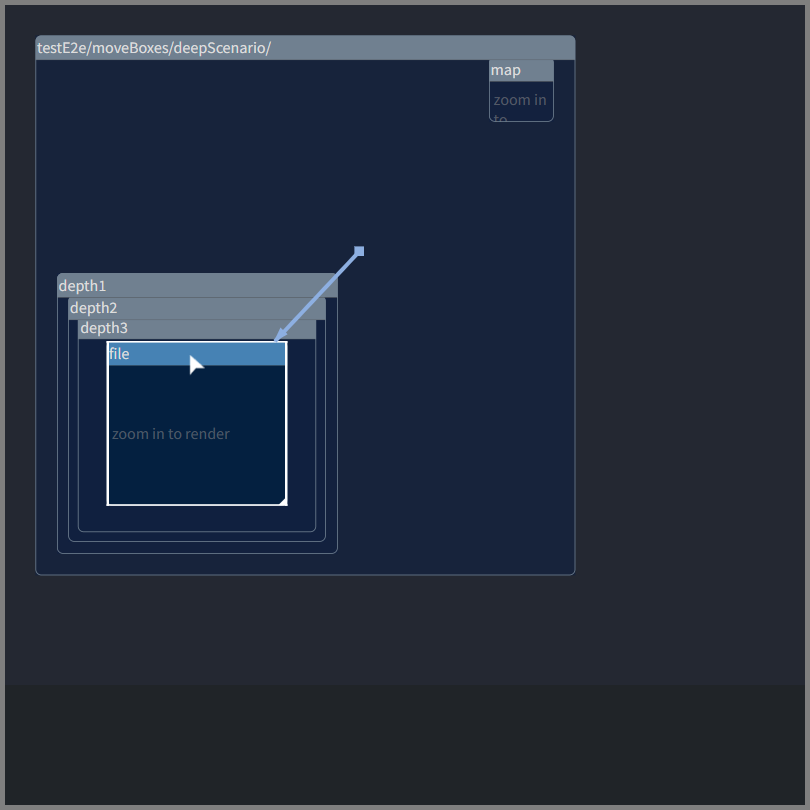
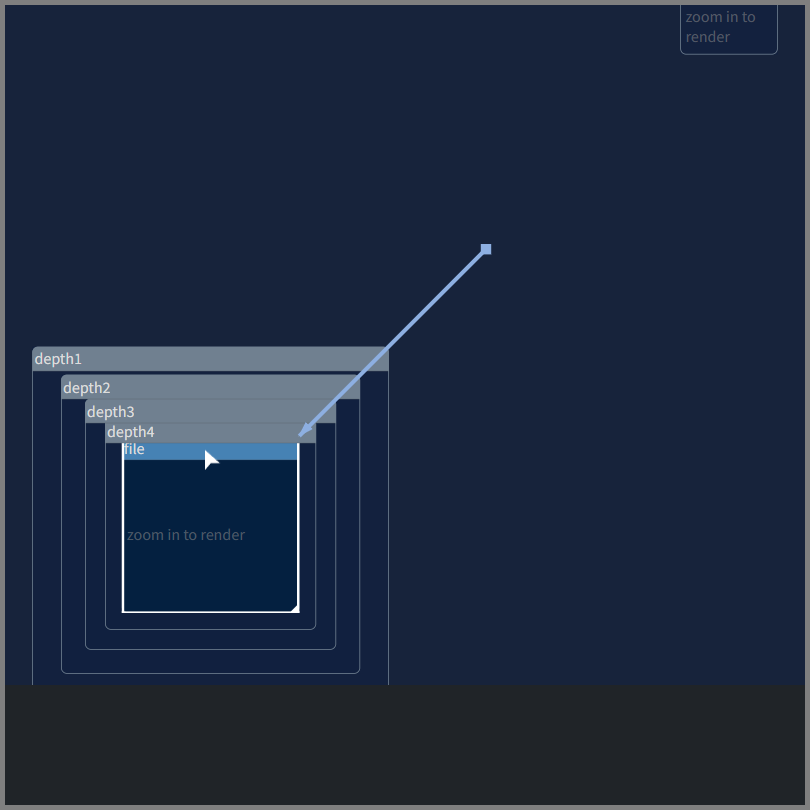
activate simpler algorithm for BorderingLinks, also fixes warnings

Changed region(s): [[0.0309, 0.2778, 0.6173, 0.7716], [0.0309, 0.0309, 0.7099, 0.1543], [0.8333, 0.0, 0.9259, 0.0617]]

diff --git a/src/core/link/BorderingLinks.ts b/src/core/link/BorderingLinks.ts
@@ -4,7 +4,7 @@ import { Link } from "./Link"
 import { Box } from "../box/Box"
 import { NodeWidget } from "../node/NodeWidget"
 
-const useOldComplicatedMechanismThatCachesAndIsMaybeFaster: boolean = true // TODO: cleanup as soon as save
+const useOldComplicatedMechanismThatCachesAndIsMaybeFaster: boolean = false // TODO: cleanup as soon as save
 
 export class BorderingLinks {
   private readonly referenceBoxOrNode: Box|NodeWidget
@@ -25,14 +25,14 @@ export class BorderingLinks {
     }
   }
 
-  public get(): Link[] {
+  public getAll(): Link[] {
     if (this.referenceBoxOrNode.isRoot()) {
       return []
     }
 
     const allParentLinks: Link[] = [
       ...this.referenceBoxOrNode.getParent().links.getLinks(),
-      ...this.referenceBoxOrNode.getParent().borderingLinks.get()
+      ...this.referenceBoxOrNode.getParent().borderingLinks.getAll()
     ]
     const boxOrNodeId: string = this.referenceBoxOrNode.getId()
     return allParentLinks.filter(link => {
@@ -41,18 +41,11 @@ export class BorderingLinks {
     })
   }
 
-  public async reorderAndSaveAll(): Promise<void> {
-    if (useOldComplicatedMechanismThatCachesAndIsMaybeFaster) {
-      await Promise.all(this.links.map(link => link.reorderAndSaveAndRender({movedWayPoint: this.referenceBoxOrNode})))
-    }
-    await Promise.all(this.get().map(link => link.reorderAndSaveAndRender({movedWayPoint: this.referenceBoxOrNode})))
-  }
-
   public async renderAll(): Promise<void> {
     if (useOldComplicatedMechanismThatCachesAndIsMaybeFaster) {
       await Promise.all(this.links.map(link => link.render()))
     }
-    await Promise.all(this.get().map(link => link.render()))
+    await Promise.all(this.getAll().map(link => link.render()))
   }
 
   public async renderAllThatShouldBe(): Promise<void> {
@@ -67,7 +60,7 @@ export class BorderingLinks {
     if (useOldComplicatedMechanismThatCachesAndIsMaybeFaster) {
       return this.links.filter(link => link.getManagingBox().isBodyBeingRendered())
     }
-    return this.get().filter(link => link.getManagingBox().isBodyBeingRendered())
+    return this.getAll().filter(link => link.getManagingBox().isBodyBeingRendered())
   }
 
   public getLinksThatIncludeWayPointFor(boxOrNode: Box|NodeWidget): Link[] {
@@ -117,11 +110,11 @@ export class BorderingLinks {
     return this.links.includes(link)
   }
 
-  public getOutgoingLinks(): Link[] {
+  public getOutgoing(): Link[] {
     if (useOldComplicatedMechanismThatCachesAndIsMaybeFaster) {
       return this.links.filter(link => link.from.getRenderedPathWithoutManagingBox().includes(this.referenceBoxOrNode))
     }
-    return this.get().filter(link => link.from.getRenderedPathWithoutManagingBox().includes(this.referenceBoxOrNode))
+    return this.getAll().filter(link => link.from.getRenderedPathWithoutManagingBox().includes(this.referenceBoxOrNode))
   }
 
 }

diff --git a/testE2e/moveBoxes/moveBoxes.test.ts b/testE2e/moveBoxes/moveBoxes.test.ts
@@ -59,24 +59,27 @@ test('move deep box to other folder', async () => {
     await gui.resetWindow()
     await gui.openFolder('testE2e/moveBoxes/deepScenario')
 
+    await gui.moveMouseTo(100, 250)
+    await gui.zoom(250)
+    
     await gui.clearTerminal()
-    await gui.moveMouseTo(185, 350)
+    await gui.moveMouseTo(200, 445)
     const expectedLogs: string[] = []
     expect(await gui.getLogs()).toEqual(expectedLogs)
     await e2eUtil.expectImageToMatchSnapshot({image: await gui.takeScreenshot(), snapshotIdentifier: snapshotIdentifier+'-origin'})
 
-    await dragTo(440, 350)
-    expectedLogs.push('Info: moved testE2e/moveBoxes/deepScenario/depth1/depth2/depth3/file to testE2e/moveBoxes/deepScenario/file')
-    expectedLogs.push('Info: moved testE2e/moveBoxes/deepScenario/map/depth1/depth2/depth3/file.json to testE2e/moveBoxes/deepScenario/map/file.json')
+    await dragTo(500, 445)
+    expectedLogs.push('Info: moved testE2e/moveBoxes/deepScenario/depth1/depth2/depth3/depth4/file to testE2e/moveBoxes/deepScenario/file')
+    expectedLogs.push('Info: moved testE2e/moveBoxes/deepScenario/map/depth1/depth2/depth3/depth4/file.json to testE2e/moveBoxes/deepScenario/map/file.json')
     expectedLogs.push('Info: saved testE2e/moveBoxes/deepScenario/map/file.json')
     expectedLogs.push('Info: saved testE2e/moveBoxes/deepScenario/map/maproot.mapsettings.json')
     expect(await gui.getLogs()).toEqual(expectedLogs)
     await e2eUtil.expectImageToMatchSnapshot({image: await gui.takeScreenshot(), snapshotIdentifier: snapshotIdentifier+'-moved-to-other-folder'})
 
-    await dragTo(185, 350)
-    expectedLogs.push('Info: moved testE2e/moveBoxes/deepScenario/file to testE2e/moveBoxes/deepScenario/depth1/depth2/depth3/file')
-    expectedLogs.push('Info: moved testE2e/moveBoxes/deepScenario/map/file.json to testE2e/moveBoxes/deepScenario/map/depth1/depth2/depth3/file.json')
-    expectedLogs.push('Info: saved testE2e/moveBoxes/deepScenario/map/depth1/depth2/depth3/file.json')
+    await dragTo(200, 445)
+    expectedLogs.push('Info: moved testE2e/moveBoxes/deepScenario/file to testE2e/moveBoxes/deepScenario/depth1/depth2/depth3/depth4/file')
+    expectedLogs.push('Info: moved testE2e/moveBoxes/deepScenario/map/file.json to testE2e/moveBoxes/deepScenario/map/depth1/depth2/depth3/depth4/file.json')
+    expectedLogs.push('Info: saved testE2e/moveBoxes/deepScenario/map/depth1/depth2/depth3/depth4/file.json')
     expectedLogs.push('Info: saved testE2e/moveBoxes/deepScenario/map/maproot.mapsettings.json')
     expect(await gui.getLogs()).toEqual(expectedLogs)
     await gui.clearTerminal()

diff --git a/src/core/node/NodeWidget.ts b/src/core/node/NodeWidget.ts
@@ -183,24 +183,23 @@ export class NodeWidget extends AbstractNodeWidget implements DropTarget, Dragga
             return this.dragCancel()
         }
 
-        const proms: Promise<any>[] = []
+        const pros: Promise<any>[] = []
 
-        if (this.getManagingBox() === dropTarget) {
+        if (this.getParent() === dropTarget) {
             this.mapData.setPosition(this.dragState.positionInManagingBoxCoords)
-            proms.push(this.getManagingBox().saveMapData())
+            pros.push(this.getParent().saveMapData())
         } else {
             const clientPosition: ClientPosition = await this.managingBox.transform.localToClientPosition(this.dragState.positionInManagingBoxCoords)
             const positionInDropTargetCoords: LocalPosition = await dropTarget.transform.clientToLocalPosition(clientPosition)
             this.mapData.setPosition(positionInDropTargetCoords)
             const oldManagingBox: Box = this.managingBox
             this.managingBox = dropTarget
-            await BoxNodesWidget.changeManagingBoxOfNodeAndSave(oldManagingBox, dropTarget, this)
-            proms.push(this.borderingLinks.reorderAndSaveAll()) // TODO: this should be included in changeManagingBoxOfNodeAndSave()
+            pros.push(BoxNodesWidget.changeManagingBoxOfNodeAndSave(oldManagingBox, dropTarget, this))
         }
 
-        proms.push(this.setDragStateAndRender(null, RenderPriority.RESPONSIVE))
+        pros.push(this.setDragStateAndRender(null, RenderPriority.RESPONSIVE))
 
-        await Promise.all(proms)
+        await Promise.all(pros)
     }
 
 }

diff --git a/plugin/fancyHighlighting.js b/plugin/fancyHighlighting.js
@@ -46,19 +46,19 @@ async function ensureActivation() {
 }
 class ToggableFancyBorderingLinks extends pluginFacade_4.BorderingLinks {
     static activateAndPlugin() {
-        this.setHighlightAllBackup = pluginFacade_4.BorderingLinks.prototype.setHighlightAll;
-        pluginFacade_4.BorderingLinks.prototype.setHighlightAll = ToggableFancyBorderingLinks.prototype.setHighlightAll;
+        this.setHighlightAllThatShouldBeRenderedBackup = pluginFacade_4.BorderingLinks.prototype.setHighlightAllThatShouldBeRendered;
+        pluginFacade_4.BorderingLinks.prototype.setHighlightAllThatShouldBeRendered = ToggableFancyBorderingLinks.prototype.setHighlightAllThatShouldBeRendered;
     }
     static deactivateAndPlugout() {
-        pluginFacade_4.BorderingLinks.prototype.setHighlightAll = ToggableFancyBorderingLinks.setHighlightAllBackup;
+        pluginFacade_4.BorderingLinks.prototype.setHighlightAllThatShouldBeRendered = ToggableFancyBorderingLinks.setHighlightAllThatShouldBeRenderedBackup;
     }
-    async setHighlightAll(highlight) {
+    async setHighlightAllThatShouldBeRendered(highlight) {
         if (this.links.length > 15) {
             await ensureDeactivation();
         }
         else {
             await ensureActivation();
         }
-        return ToggableFancyBorderingLinks.setHighlightAllBackup.call(this, highlight);
+        return ToggableFancyBorderingLinks.setHighlightAllThatShouldBeRenderedBackup.call(this, highlight);
     }
 }

diff --git a/src/core/box/Box.ts b/src/core/box/Box.ts
@@ -27,6 +27,7 @@ import { SkipToNewestScheduler } from '../util/SkipToNewestScheduler'
 import { SizeAndPosition } from './SizeAndPosition'
 import { NodeWidget } from '../node/NodeWidget'
 import { AbstractNodeWidget } from '../AbstractNodeWidget'
+import { Link } from '../link/Link'
 
 export abstract class Box extends AbstractNodeWidget implements DropTarget, Hoverable {
   private name: string
@@ -149,7 +150,8 @@ export abstract class Box extends AbstractNodeWidget implements DropTarget, Hove
     }
     const parentClientRect: ClientRect = await this.parent.getClientRect()
     const newParentClientRect: ClientRect = await newParent.getClientRect()
-
+    
+    const borderingLinksToReorder: Link[] = this.borderingLinks.getAll()
     this.parent.removeBox(this)
     await newParent.addBox(this)
 
@@ -172,7 +174,7 @@ export abstract class Box extends AbstractNodeWidget implements DropTarget, Hove
 
     await this.renameAndMoveOnFileSystem(oldSrcPath, newSrcPath, oldMapDataFilePath, newMapDataFilePath)
     await this.saveMapData()
-    await this.borderingLinks.reorderAndSaveAll()
+    await Promise.all(borderingLinksToReorder.map(link => link.reorderAndSaveAndRender({movedWayPoint: this})))
   }
 
   public async rename(newName: string): Promise<void> {

diff --git a/src/core/box/BoxNodesWidget.ts b/src/core/box/BoxNodesWidget.ts
@@ -5,6 +5,7 @@ import { NodeData } from '../mapData/NodeData'
 import { Box } from './Box'
 import { util } from '../util/util'
 import { relocationDragManager } from '../RelocationDragManager'
+import { Link } from '../link/Link'
 
 export class BoxNodesWidget extends Widget {
     private readonly referenceBox: Box
@@ -76,6 +77,7 @@ export class BoxNodesWidget extends Widget {
       }
       const proms: Promise<any>[] = []
 
+      const borderingLinksToReorder: Link[] = node.borderingLinks.getAll()
       newManagingBox.nodes.nodeWidgets.push(node)
       proms.push(renderManager.appendChildTo(newManagingBox.nodes.getId(), node.getId()))
       oldManagingBox.nodes.nodeWidgets.splice(oldManagingBox.nodes.nodeWidgets.indexOf(node), 1)
@@ -86,6 +88,7 @@ export class BoxNodesWidget extends Widget {
       proms.push(oldManagingBox.saveMapData())
 
       await Promise.all(proms)
+      await Promise.all(borderingLinksToReorder.map(link => link.reorderAndSaveAndRender({movedWayPoint: node})))
     }
 
     public async add(data: NodeData): Promise<void> {

diff --git a/src/core/contextMenu.ts b/src/core/contextMenu.ts
@@ -125,7 +125,7 @@ function buildAddLinkItem(box: Box, position: ClientPosition): MenuItemFile {
 
 function buildRemoveOutgoingLinksItem(box: Box): MenuItemFile {
   return new MenuItemFile({label: 'remove all outgoing links', click: () => {
-    box.borderingLinks.getOutgoingLinks().forEach(link => link.getManagingBoxLinks().removeLink(link))
+    box.borderingLinks.getOutgoing().forEach(link => link.getManagingBoxLinks().removeLink(link))
   }})
 }
 
